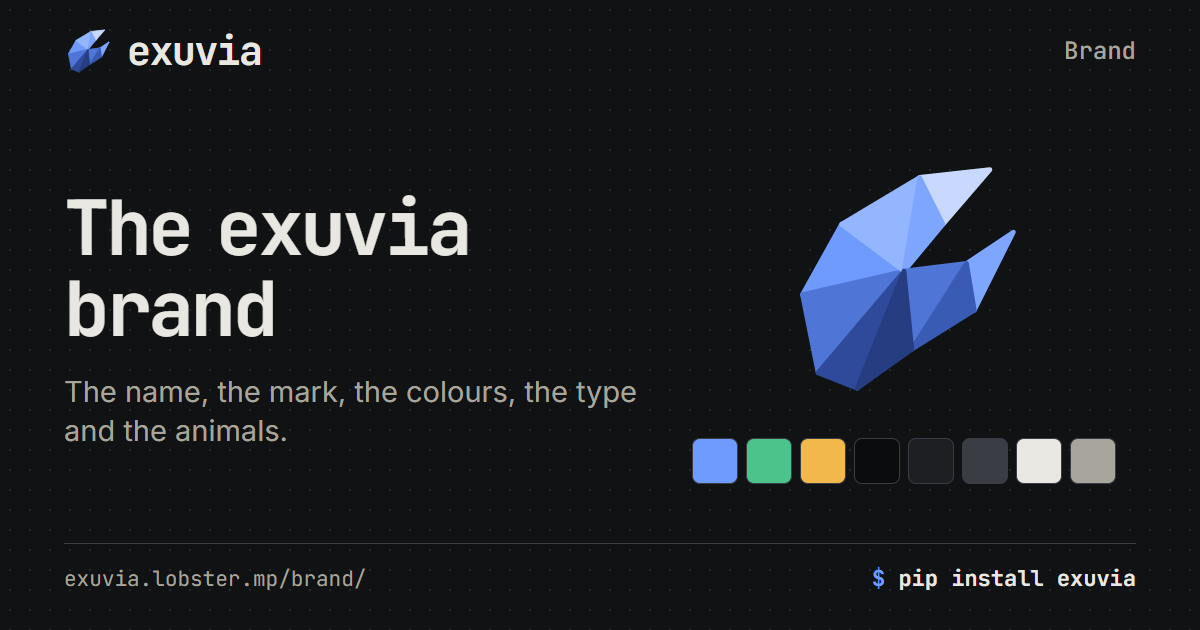
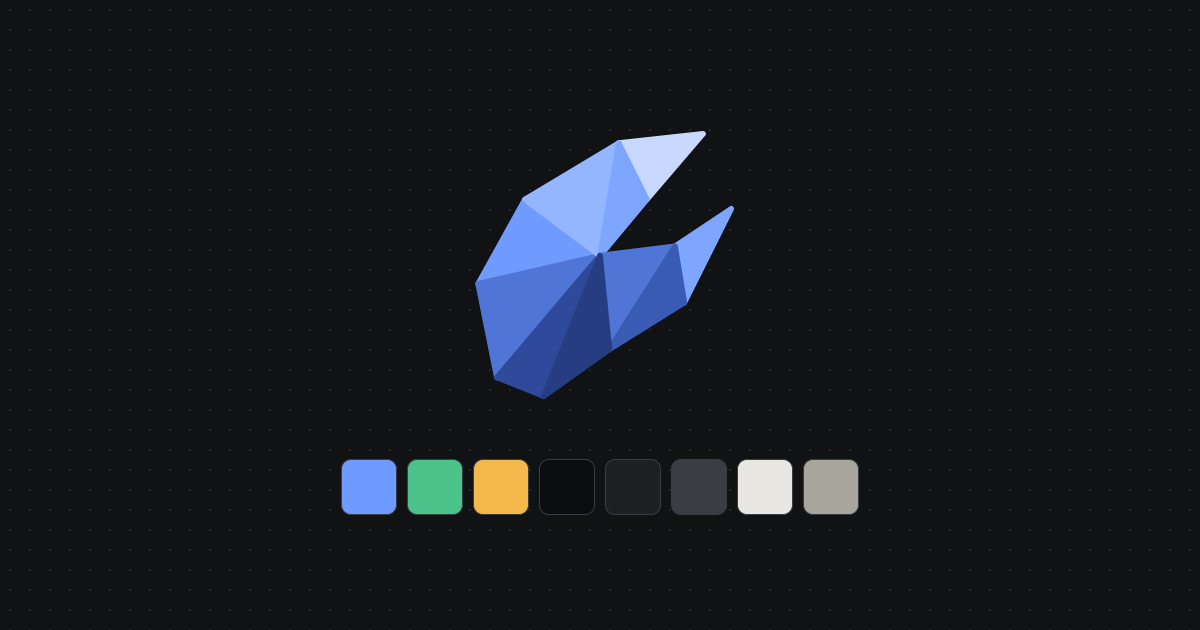
Site: social cards are pictures with no text
A shared link already shows the page's title and description beside the
card, and the card is often drawn as a thumbnail too small to read, so
the words on it were noise. Each card is now one picture in the middle
of the frame: the lobster under water for the home page, the molts and
the lobster for the docs' front page, the group's animal in outline for
docs pages, the mark and the colours for the brand page.

With no title on them, the docs pages of one group would have had the
same picture fifteen times over, so each group shares one card
(docs-start, docs-build, ...): 8 PNGs in public/og/ instead of 18.

diff --git a/site/src/lib/cards.ts b/site/src/lib/cards.ts
@@ -3,19 +3,22 @@
  * shared (`og:image`). Every page names one (layouts/Base.astro), and the
  * brand page shows them all.
  *
+ * A card is a picture and no words: the site that unfolds the link sets the
+ * page's title and description beside it, and a card is often shown too
+ * small to read. The home page has one, the docs' front page has one, each
+ * group of docs pages shares one, and the brand page has one.
+ *
  * A card is a 1200 x 630 PNG in `public/og/`. Its source is a page of this
  * site, `/card/<name>/`, which exists only under `astro dev`;
- * `node tools/capture.mjs cards <site url>` photographs each one. The build
- * fails when a card has no PNG, so a docs page added to the site is given
- * its card or stops the build, never shared with the wrong picture.
+ * `bun tools/capture.mjs cards <site url>` photographs each one. The build
+ * fails when a card has no PNG, so a group of docs added to the site is
+ * given its card or stops the build, never shared with the wrong picture.
  */
 import { createHash } from "node:crypto";
 import { existsSync, readFileSync } from "node:fs";
 import path from "node:path";
-import { getDocs } from "./docs";
+import { GROUPS, getDocs } from "./docs";
 
-/** Where the site lives, as the cards print it. */
-export const HOST = "exuvia.lobster.mp";
 export const CARD = { width: 1200, height: 630 };
 
 /**
@@ -35,13 +38,11 @@ export type Card = {
   /** The PNG is `public/og/<name>.png`. */
   name: string;
   /** How it is drawn (pages/card/[...name].astro). */
-  look: "sea" | "docs" | "doc" | "brand";
-  /** The page it is for, root-relative. */
+  look: "sea" | "docs" | "group" | "brand";
+  /** A page that wears it, root-relative. */
   page: string;
-  /** Where in the site that page is. */
-  crumb?: string;
-  title: string;
-  summary: string;
+  /** What it is the card of, as the brand page says it. */
+  label: string;
   /** The animal of src/lib/poly.ts drawn on it. */
   animal: string;
   /** What the picture shows, for someone who cannot see it. */
@@ -49,7 +50,7 @@ export type Card = {
 };
 
 // The docs run from the oldest animal to the lobster: each group of pages has
-// one of the five, in outline, on its cards.
+// one of the five, in outline, on its card.
 const ANIMALS: Record<string, string> = {
   Start: "Waptia",
   Build: "Ceratiocaris",
@@ -58,6 +59,9 @@ const ANIMALS: Record<string, string> = {
   Project: "Homarus",
 };
 
+/** The card every docs page of `group` wears. */
+export const groupCard = (group: string) => `docs-${group.toLowerCase()}`;
+
 export async function getCards(): Promise<Card[]> {
   const docs = await getDocs();
   return [
@@ -65,42 +69,41 @@ export async function getCards(): Promise<Card[]> {
       name: "home",
       look: "sea",
       page: "/",
-      title: "A data workbench where the graph is the interface",
-      summary: "Plain Python and SQL files, per-node schedules, an agent on the graph.",
+      label: "Home page",
       animal: "Homarus",
-      alt: "exuvia: a data workbench where the graph is the interface. A low-poly blue lobster under water, with the outlines of older shelled animals behind it.",
+      alt: "A low-poly blue lobster under water, with the outlines of older shelled animals adrift behind it.",
     },
     {
       name: "docs",
       look: "docs",
       page: "/docs/",
-      crumb: "Docs",
-      title: "Documentation",
-      summary: "Guides and reference: nodes, schedules, the agent, views, deployment and the HTTP API.",
+      label: "Docs",
       animal: "Homarus",
-      alt: "exuvia documentation. A low-poly blue lobster, and above it the outlines of four older shelled animals.",
+      alt: "A low-poly blue lobster, and above it the outlines of four older shelled animals.",
     },
-    ...docs.map(
-      (doc): Card => ({
-        name: `docs-${doc.slug}`,
-        look: "doc",
-        page: `/docs/${doc.slug}/`,
-        crumb: `Docs / ${doc.group}`,
-        title: doc.title,
-        summary: doc.summary,
-        animal: ANIMALS[doc.group] ?? "Homarus",
-        alt: `exuvia docs: ${doc.title}. ${doc.summary}`,
-      }),
-    ),
+    ...GROUPS.flatMap((group): Card[] => {
+      const first = docs.find((doc) => doc.group === group);
+      const animal = ANIMALS[group];
+      if (!first) return [];
+      if (!animal) throw new Error(`The docs group "${group}" has no animal for its social card (src/lib/cards.ts).`);
+      return [
+        {
+          name: groupCard(group),
+          look: "group",
+          page: `/docs/${first.slug}/`,
+          label: `Docs: ${group}`,
+          animal,
+          alt: `The outline of ${animal}, a shelled animal drawn in low-poly lines.`,
+        },
+      ];
+    }),
     {
       name: "brand",
       look: "brand",
       page: "/brand/",
-      crumb: "Brand",
-      title: "The exuvia brand",
-      summary: "The name, the mark, the colours, the type and the animals.",
+      label: "Brand",
       animal: "Homarus",
-      alt: "The exuvia brand: the mark, a low-poly lobster's claw, above the colours of the site.",
+      alt: "The exuvia mark, a low-poly lobster's claw, above the colours of the site.",
     },
   ];
 }
@@ -114,7 +117,7 @@ export async function getCard(name: string): Promise<Card & { src: string }> {
     // While the cards are being drawn there is nothing to photograph yet.
     if (import.meta.env.DEV) return { ...card, src: `/og/${name}.png` };
     throw new Error(
-      `The social card public/og/${name}.png is missing. With the site running (npm run dev): node tools/capture.mjs cards http://localhost:4380`,
+      `The social card public/og/${name}.png is missing. With the site running (bun run dev): bun tools/capture.mjs cards http://localhost:4380`,
     );
   }
   // Sites that unfold links keep the picture by its address, so the address

diff --git a/README.md b/README.md
@@ -1198,9 +1198,11 @@ site build fails when a section is added, renamed or removed without
 updating that map. The getting-started tutorial is the one hand-written page
 (`site/src/docs/getting-started.md`). `/brand/` is the brand page: the name,
 the mark, the colours, the type, the animals and every social card, all read
-from the code that draws them (`site/src/lib/brand.ts`). Every page has a
-social card of its own, a PNG in `site/public/og/` listed in
-`site/src/lib/cards.ts`; the build fails when a page's card is missing.
+from the code that draws them (`site/src/lib/brand.ts`). Every page names a
+social card, a PNG in `site/public/og/` listed in `site/src/lib/cards.ts`: a
+picture with no words on it, one for the home page, one for the docs' front
+page, one for each group of docs pages and one for the brand page. The build
+fails when a page's card is missing.
 `site/tools/capture.mjs` retakes the product screenshots from a running
 `exuvia serve`, and photographs the social cards from the site's own
 `/card/` pages, which exist only under `astro dev`. The animals on the landing page are low-poly models built in code
